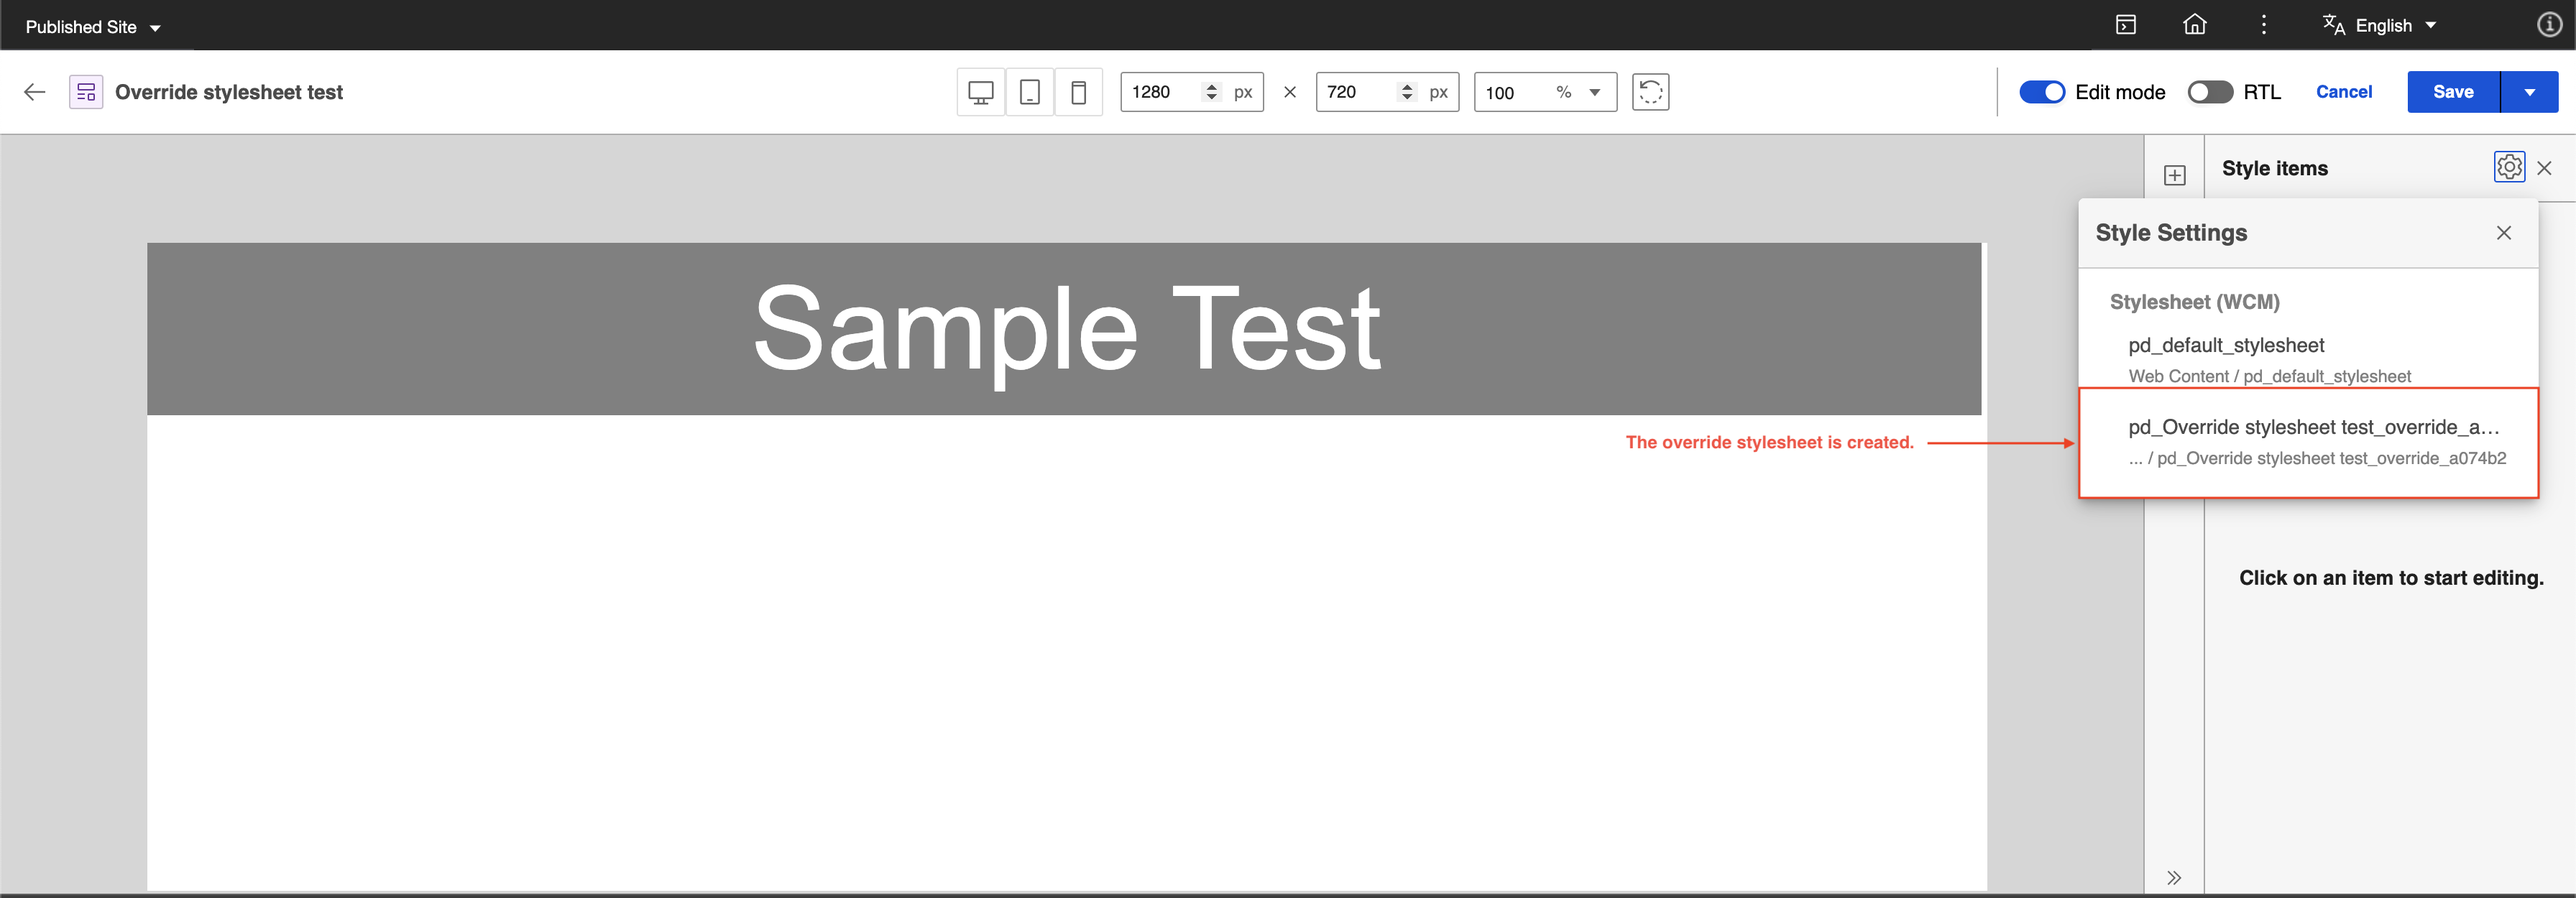
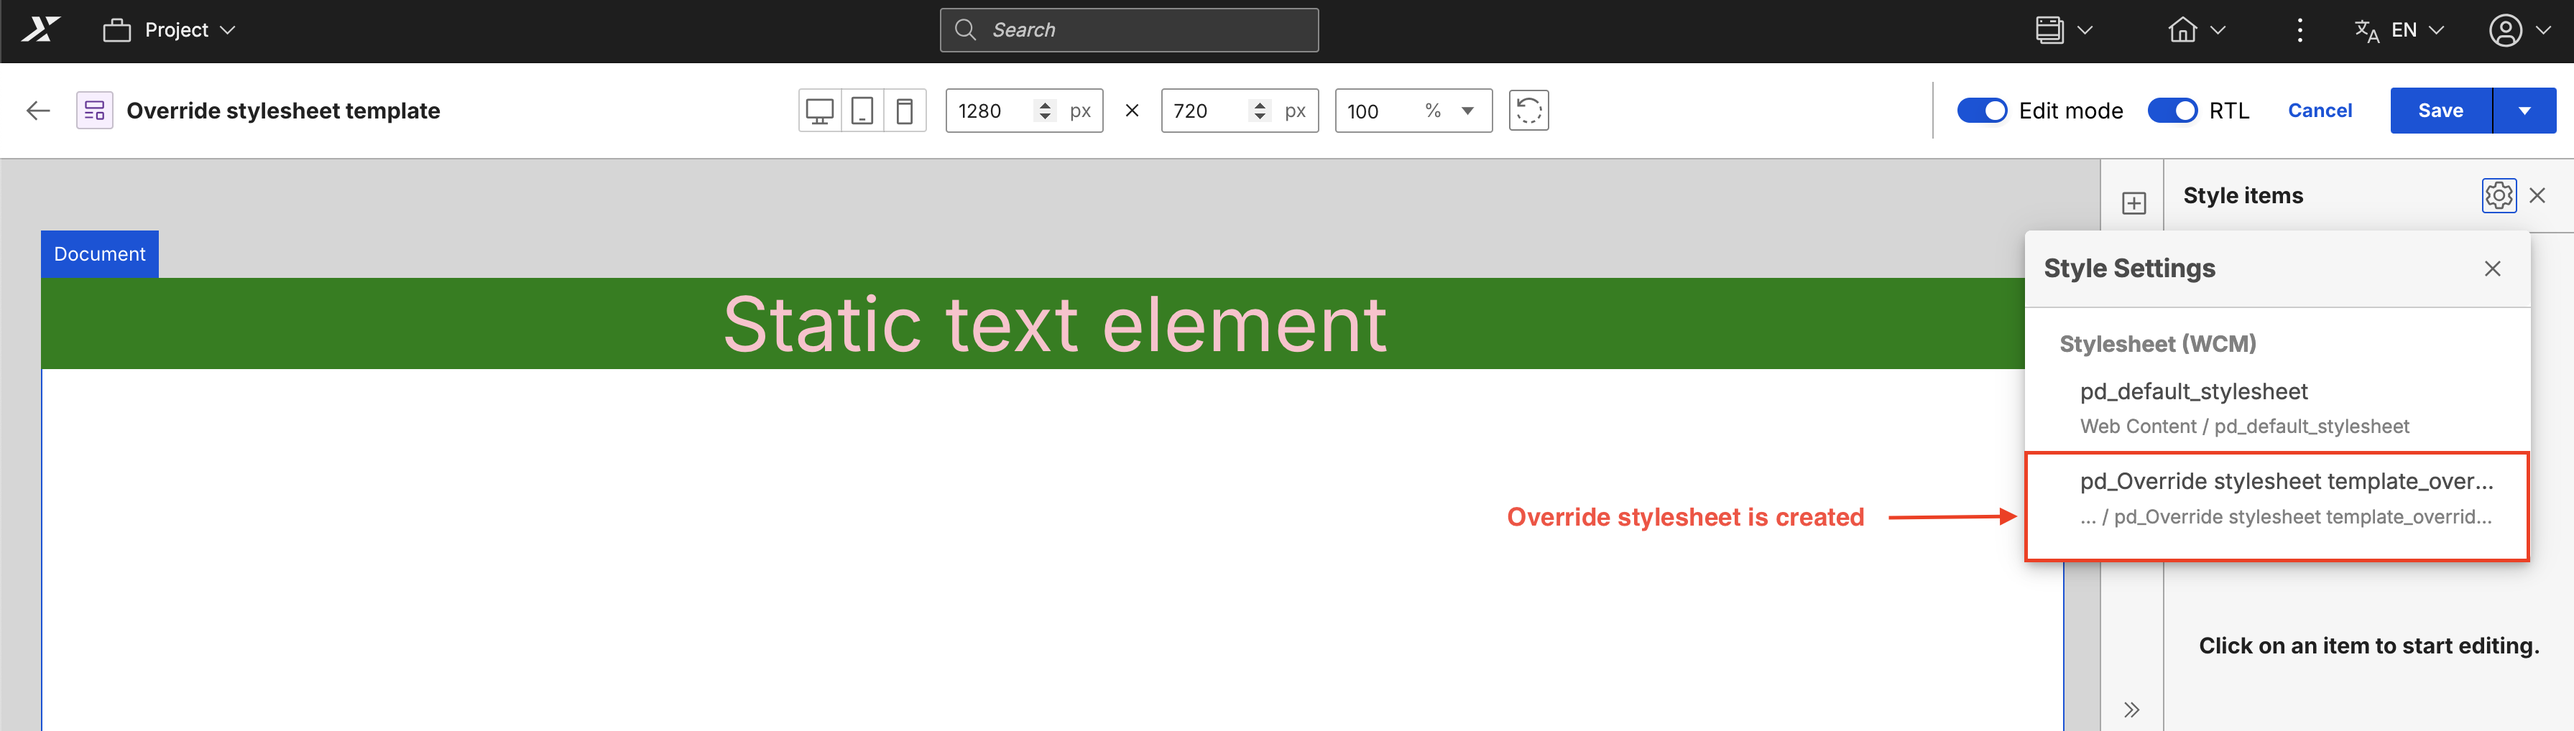
Update override stylesheet documentation to include rtl styling

diff --git a/docs/manage_content/wcm_authoring/presentation_designer/usage/default_and_override_stylesheet.md b/docs/manage_content/wcm_authoring/presentation_designer/usage/default_and_override_stylesheet.md
@@ -69,17 +69,35 @@ The **Override stylesheet** allows users to customize styles for specific elemen
 
 1. Override styles can be applied to different resolutions, and each resolution has its own style. If the style is set for **Desktop**, it applies the change to all devices. If the style is set for **Tablet**, it applies the change to tablets and mobile devices only. If the style is set for **Mobile**, it applies the change to mobile devices only. If there are specific changes to the style for a particular device, those changes will not take effect on other devices since the specific device already has a defined value for the style.
 
-2. The classname for the override stylesheet on the selected element apply when a style is edited. For example:
+2. Override styles support direction-specific styling for bidirectional text layouts through the **Canvas direction toggle** in the Presentation Designer header. This allows you to create distinct styles for RTL (Right-to-Left) and LTR (Left-to-Right) text directions.
 
-    After dropping the element:
+    ![](../../../../assets/HCL_Presentation_Designer_override_stylesheet_canvas_direction_toggle.png)
 
-    ![](../../../../assets/HCL_Presentation_Designer_override_stylesheet_newly_drop_element.png)
+    Override classes follow the naming convention `pd-override-[Element]-[(6)uuid]`, where `[Element]` is the element type and `[(6)uuid]` is a 6-character unique identifier:
 
-    After adding a style on that element:
+    - **LTR classname convention**: `pd-override-[Element]-[(6)uuid]` (for example, `.pd-override-Text-d00c2b`)
+  
+    - **RTL classname convention**: `pd-override-[Element]-[(6)uuid]:dir(rtl)` (for example, `.pd-override-Text-d00c2b:dir(rtl)`)
 
-    ![](../../../../assets/HCL_Presentation_Designer_override_stylesheet_after_changing_style.png)
+    - When the RTL toggle is enabled and style changes are made, the override class includes the `:dir(rtl)` pseudo-class selector. These styles only apply when the page or element is in RTL mode.
 
-3. For each element, there is a corresponding classname convention. For example, `pd-override-[Element]-[(6)uuid]`.
+    - When the RTL toggle is disabled (LTR mode) and style changes are made, the override class is created without the direction indicator. These base styles apply to both LTR and RTL by default.
+  
+    - RTL-specific styles (with `:dir(rtl)`) override the base styles only when the document is in RTL mode. If no RTL-specific styles are defined, the base LTR styles apply to both directions. Both sets of styles coexist in the same override stylesheet, allowing the same element to have different appearances based on the document's text direction.
+
+3. Override classes are applied to elements when styles are edited. The following example demonstrates how override classes are created and applied:
+
+    **Step 1**: When you first drop an element on the canvas, only the default class is applied. No override class exists yet:
+
+    ![](../../../../assets/HCL_Presentation_Designer_override_stylesheet_newly_dropped_element.png)
+
+    **Step 2**: After adding style changes to the element (for example, changing font size and background color), you can now see that an override class has been added to the element:
+
+    ![](../../../../assets/HCL_Presentation_Designer_override_stylesheet_override_class_applied.png)
+
+    **Step 3**: You can apply independent styling for RTL by switching to RTL mode using the Canvas direction toggle and adding different style changes (for example, changing background color and text alignment). After applying these changes, the same override class is used but with the `:dir(rtl)` pseudo-class selector added to target RTL mode:
+
+    ![](../../../../assets/HCL_Presentation_Designer_override_stylesheet_RTL_pseudo_class.png)
 
 4. After saving the Presentation Designer, it automatically creates an override stylesheet:
 
@@ -88,26 +106,31 @@ The **Override stylesheet** allows users to customize styles for specific elemen
 5. To validate the override style, you can inspect and visit the header and the element. For example:
 
     HTML head for override stylesheet:
-    ![](../../../../assets/HCL_Presentation_Designer_override_stylesheet_html_head.png)
+    ![](../../../../assets/HCL_Presentation_Designer_override_stylesheet_in_head.png)
 
     Element styles for the override stylesheet:
-    ![](../../../../assets/HCL_Presentation_Designer_Override_stylesheet_element_inspect.png)
 
-6. The override style is found in the Presentation Designer libraries. Its location is determined based on presentation template's location:
+    LTR styles:
+    ![](../../../../assets/HCL_Presentation_Designer_override_stylesheet_LTR_styles.png)
+
+    RTL styles:
+    ![](../../../../assets/HCL_Presentation_Designer_override_stylesheet_RTL_styles.png)
+
+6. The override stylesheet is found in the Presentation Designer libraries. Its location is determined based on presentation template's location:
+
+    ![](../../../../assets/HCL_Presentation_Designer_override_stylesheet_PT_path.png)
+
+7. The override stylesheet is named based on the following naming convention: `pd_[Presentation template name]_override_[(6)uuid]`. For example:
 
     ![](../../../../assets/HCL_Presentation_Designer_override_stylesheet_path.png)
 
-7. The override style is named based on the following naming convention: `pd_[Presentation template name]_override_[(6)uuid]`. For example:
-
-    ![](../../../../assets/HCL_Presentation_Designer_override_stylesheet_location.png)
-
-8. To validate the styles set in the default stylesheet:
+8. To validate the styles set in the override stylesheet:
 
     1. Select the file and click **Edit**.
     2. Click **pd_Override stylesheet test_override_a074b2.css** to download the file.
 
-        ![](../../../../assets/HCL_Presentation_Designer_Override_stylesheet_download.png)
+        ![](../../../../assets/HCL_Presentation_Designer_override_stylesheet.png)
 
-    3. Locate the downloaded file and open it. This contains the CSS data inside the override stylesheet.
+    3. Locate the downloaded file and open it. This contains the CSS data inside the override stylesheet, including both LTR and RTL styles (if RTL-specific styles were applied).
 
-        ![](../../../../assets/HCL_Presentation_Designer_Override_stylesheet_downloaded_file.png)
+        ![](../../../../assets/HCL_Presentation_Designer_override_stylesheet_component.png)
